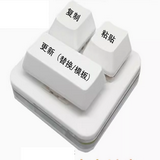
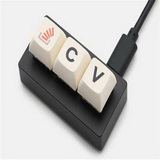
chore: 更改图标和预览图

diff --git a/CHANGELOG.md b/CHANGELOG.md
@@ -4,6 +4,7 @@
 ### Bug Fixes
 
 * 修复脚本热更新 ([ecd076e](https://github.com/etchnight/siyuan-plugin-table-importer/commit/ecd076e8ba532dc4e5be495559a6eae6a3a778b2))
+* **自定义块粘贴:** 修复 不进行插入粘贴的内容 的问题 ([357d861](https://github.com/etchnight/siyuan-plugin-table-importer/commit/357d8611a29fcd59f9b12f1d3dafa9e3b02b2bea)), closes [#7](https://github.com/etchnight/siyuan-plugin-table-importer/issues/7)
 
 
 ### Code Refactoring
@@ -24,34 +25,6 @@
 ### BREAKING CHANGES
 
 * 自定义函数的参数和返回值都做了较大的更改
-* 暂时不可用
-
-
-
-# [0.4.0](https://github.com/etchnight/siyuan-plugin-table-importer/compare/v0.3.0...v0.4.0) (2024-12-05)
-
-
-### Bug Fixes
-
-* 修复脚本热更新 ([ecd076e](https://github.com/etchnight/siyuan-plugin-table-importer/commit/ecd076e8ba532dc4e5be495559a6eae6a3a778b2))
-
-
-### Code Refactoring
-
-* 开始重构 ([1e9e1e8](https://github.com/etchnight/siyuan-plugin-table-importer/commit/1e9e1e810fb764a7731c87d1876a20080ffcec8d))
-
-
-### Features
-
-* 超时（5秒）自动刷新页面，以防止死循环出现 ([7d3cefb](https://github.com/etchnight/siyuan-plugin-table-importer/commit/7d3cefb3782db321b0f448772c545c33f91f7ec9)), closes [#6](https://github.com/etchnight/siyuan-plugin-table-importer/issues/6)
-* 获取到的js块将按照字母顺序排序 ([dfa58fe](https://github.com/etchnight/siyuan-plugin-table-importer/commit/dfa58fe09936556556a4c270316e7fa8ea88f571))
-* 可以调用另外一个代码片段 ([8569d98](https://github.com/etchnight/siyuan-plugin-table-importer/commit/8569d98191f37a5a848b3ff576b10afc6f06f6f3))
-* **自定义块更新:** 提示显示运行块的名称 ([5958771](https://github.com/etchnight/siyuan-plugin-table-importer/commit/5958771b14ff8f48ce9f14e81cec4ce80f83bbc6))
-* **自定义块更新:** 支持删除块 ([519842c](https://github.com/etchnight/siyuan-plugin-table-importer/commit/519842c33a67c73105c5b86ad2c1b3f138ecd949))
-
-
-### BREAKING CHANGES
-
 * 暂时不可用
 
 

diff --git a/README.md b/README.md
@@ -1,5 +1,7 @@
 # 块转换工具
 
+❗❗0.4.0版本开始，插件不再支持旧版本的脚本，以支持更多功能，请阅读说明。
+
 [English](./README_en_US.md)
 
 [更新日志](./CHANGELOG.md)
